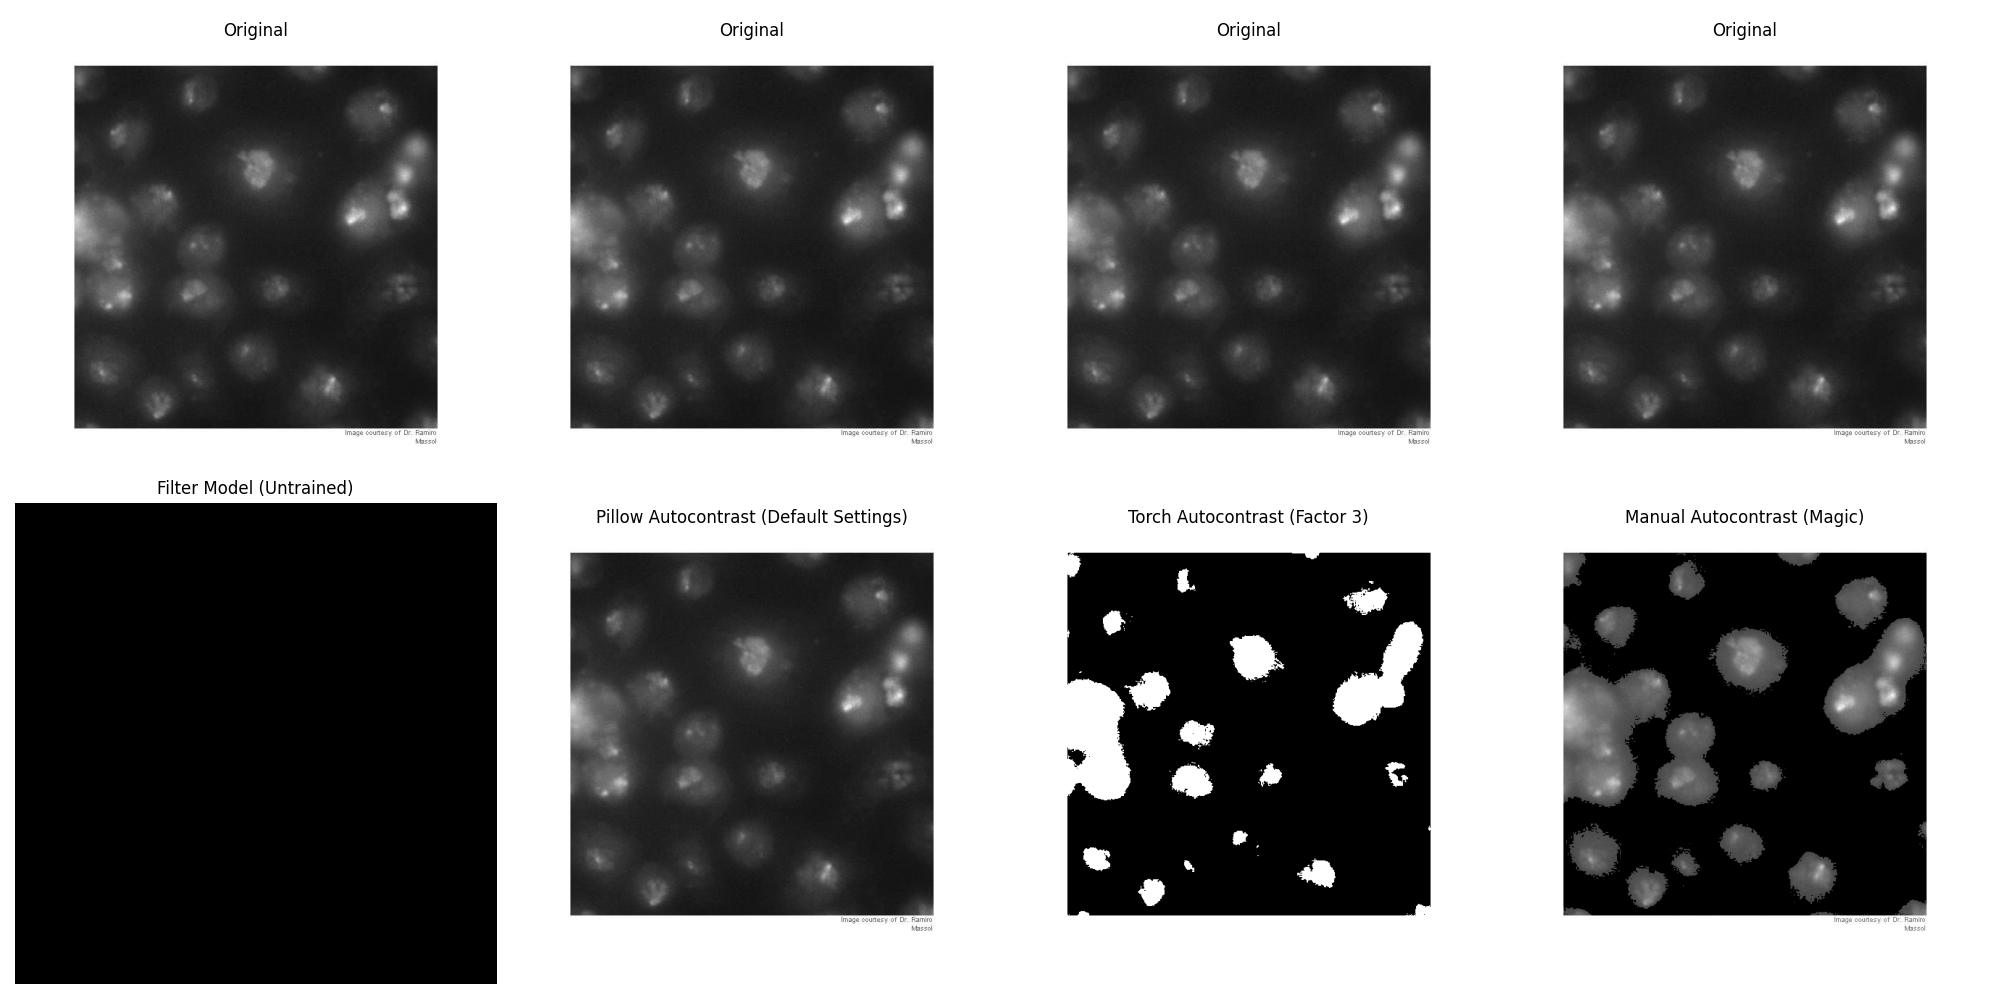
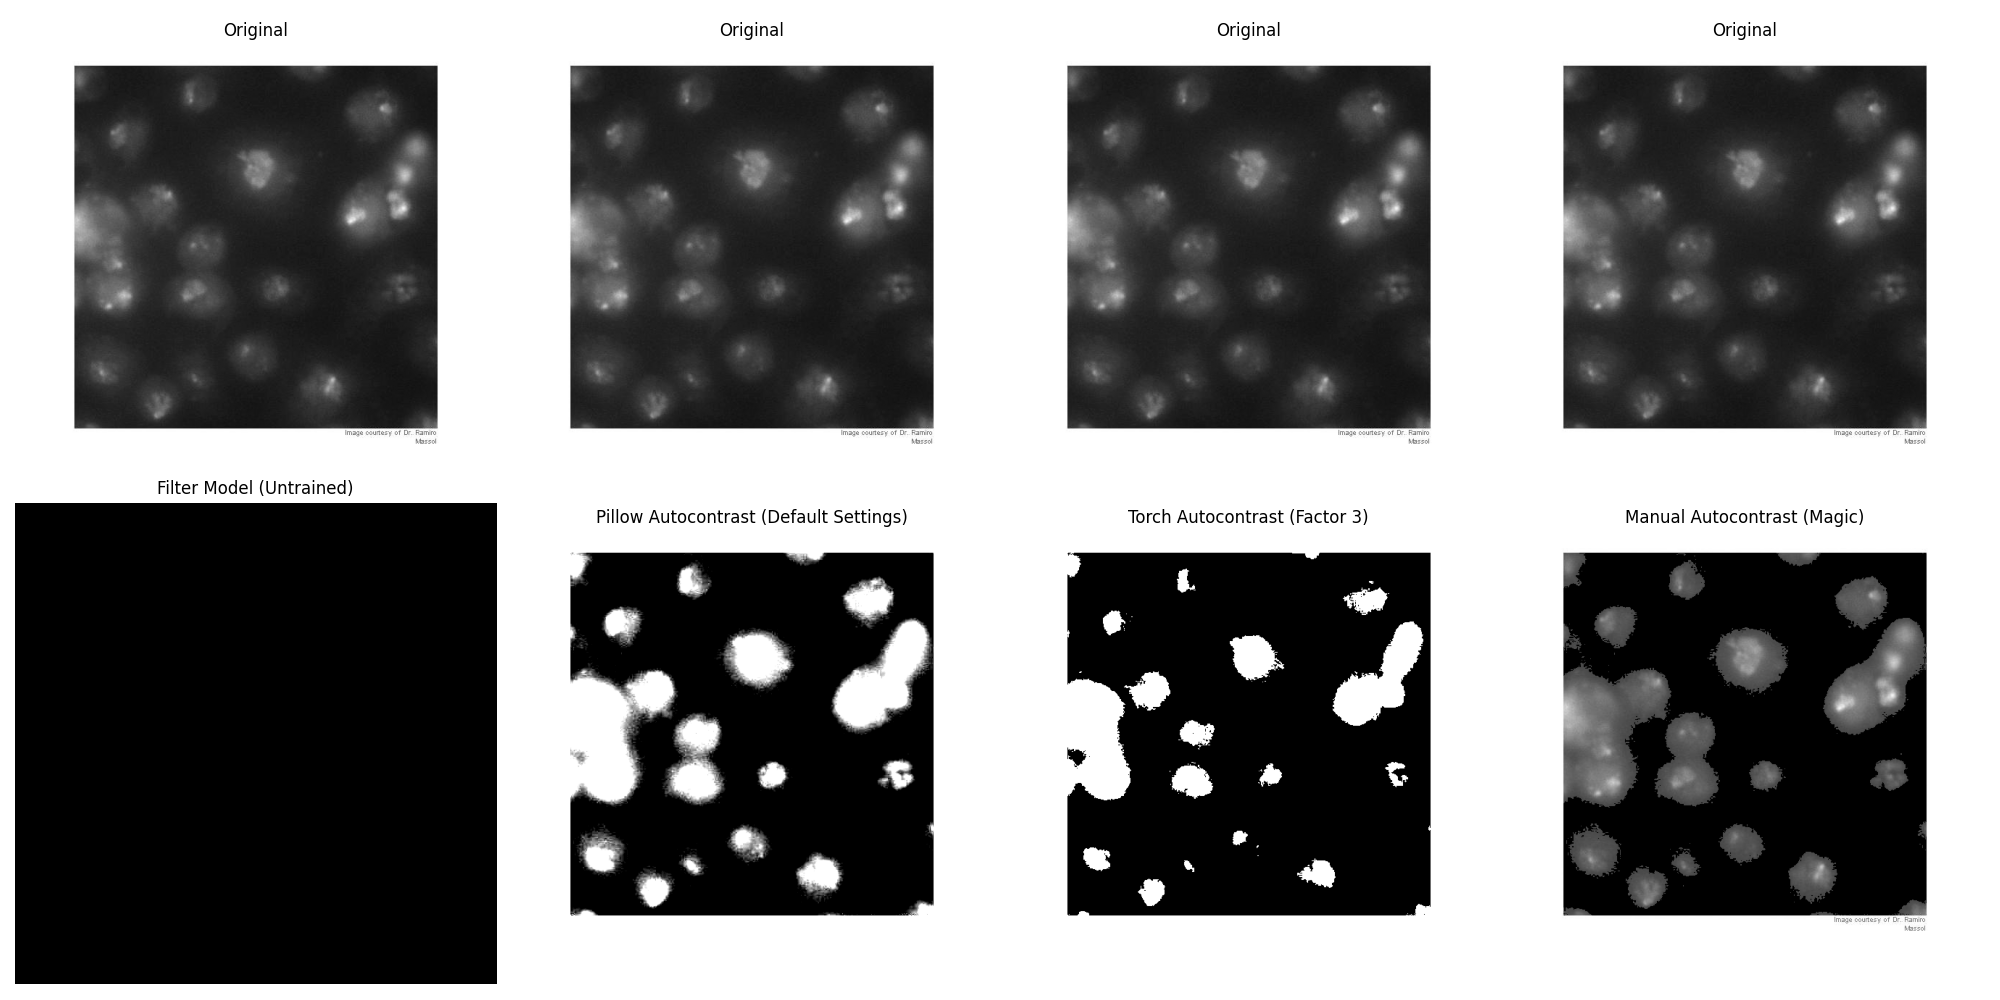
Minor change to PIL

Changed region(s): [[0.279, 0.527, 0.465, 0.93]]

diff --git a/main.py b/main.py
@@ -78,7 +78,9 @@ class AutoContraster:
 
     def apply_pillow_autocontrast(self, img):
         # Refer: https://pillow.readthedocs.io/en/stable/reference/ImageOps.html#PIL.ImageOps.autocontrast
-        return autocontrast(img)
+        return autocontrast(
+            img, cutoff=45
+        )  # the answer for why 45 is in the manual implementation section
 
     def apply_torch_adjustcontrast(self, img):
         # Refer: https://pytorch.org/vision/main/generated/torchvision.transforms.functional.adjust_contrast.html

diff --git a/README.md b/README.md
@@ -41,3 +41,4 @@ The script generates and saves a comparison of the different methods.
 - The manual method assumes the brightest pixels represent cells.
 - The lowest 45% of pixel intensities are clamped to zero to enhance contrast.
 - This ensures that the cells remain visible while the background is suppressed.
+- Empirically, it seems like this method works as well as PIL, but has the added benefit of not flattening the gradients that could be extracted from inside the cell borders.
